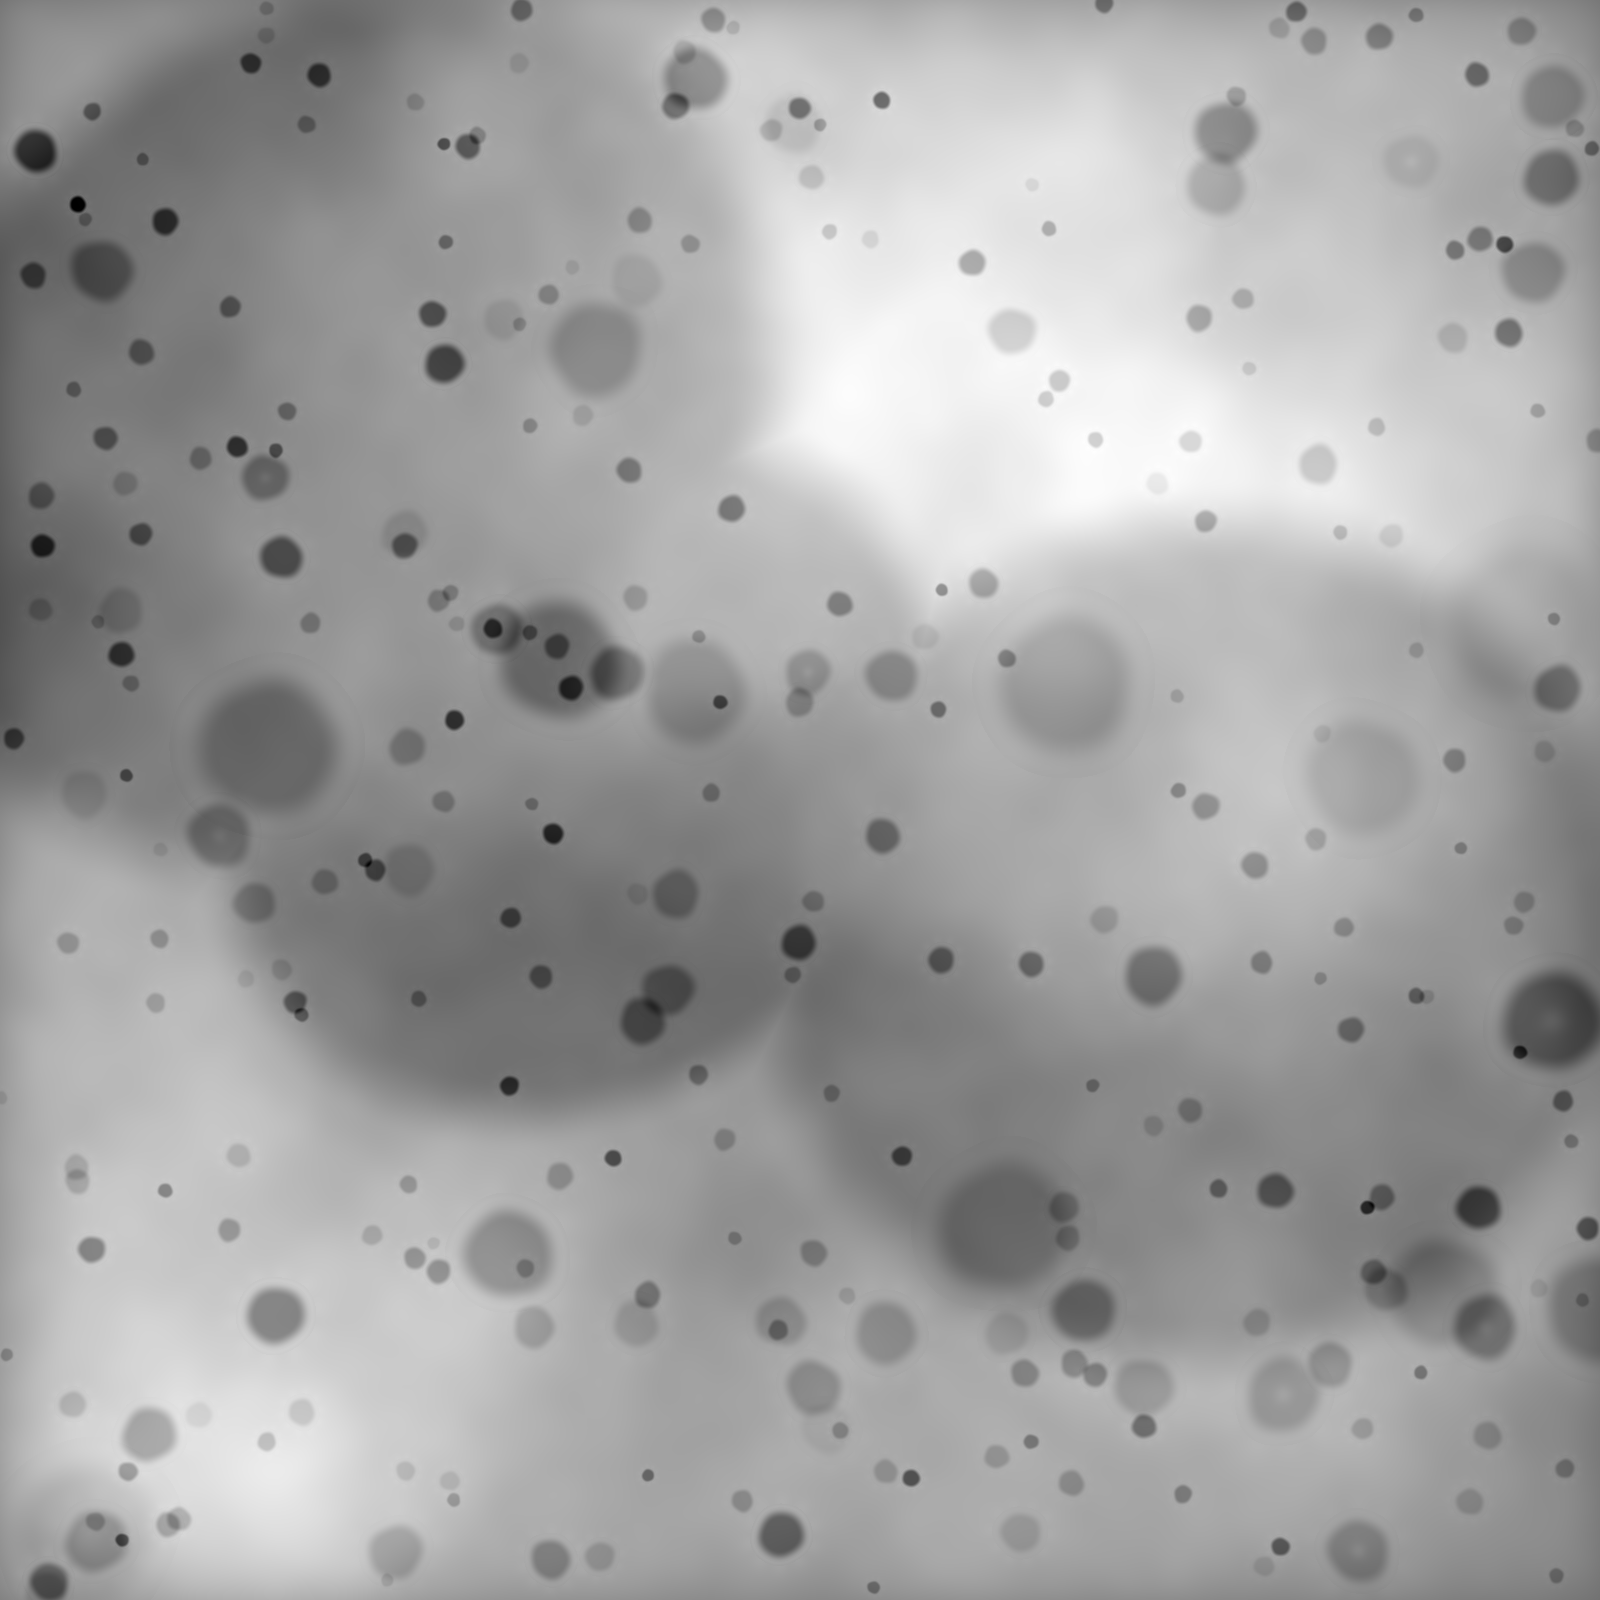
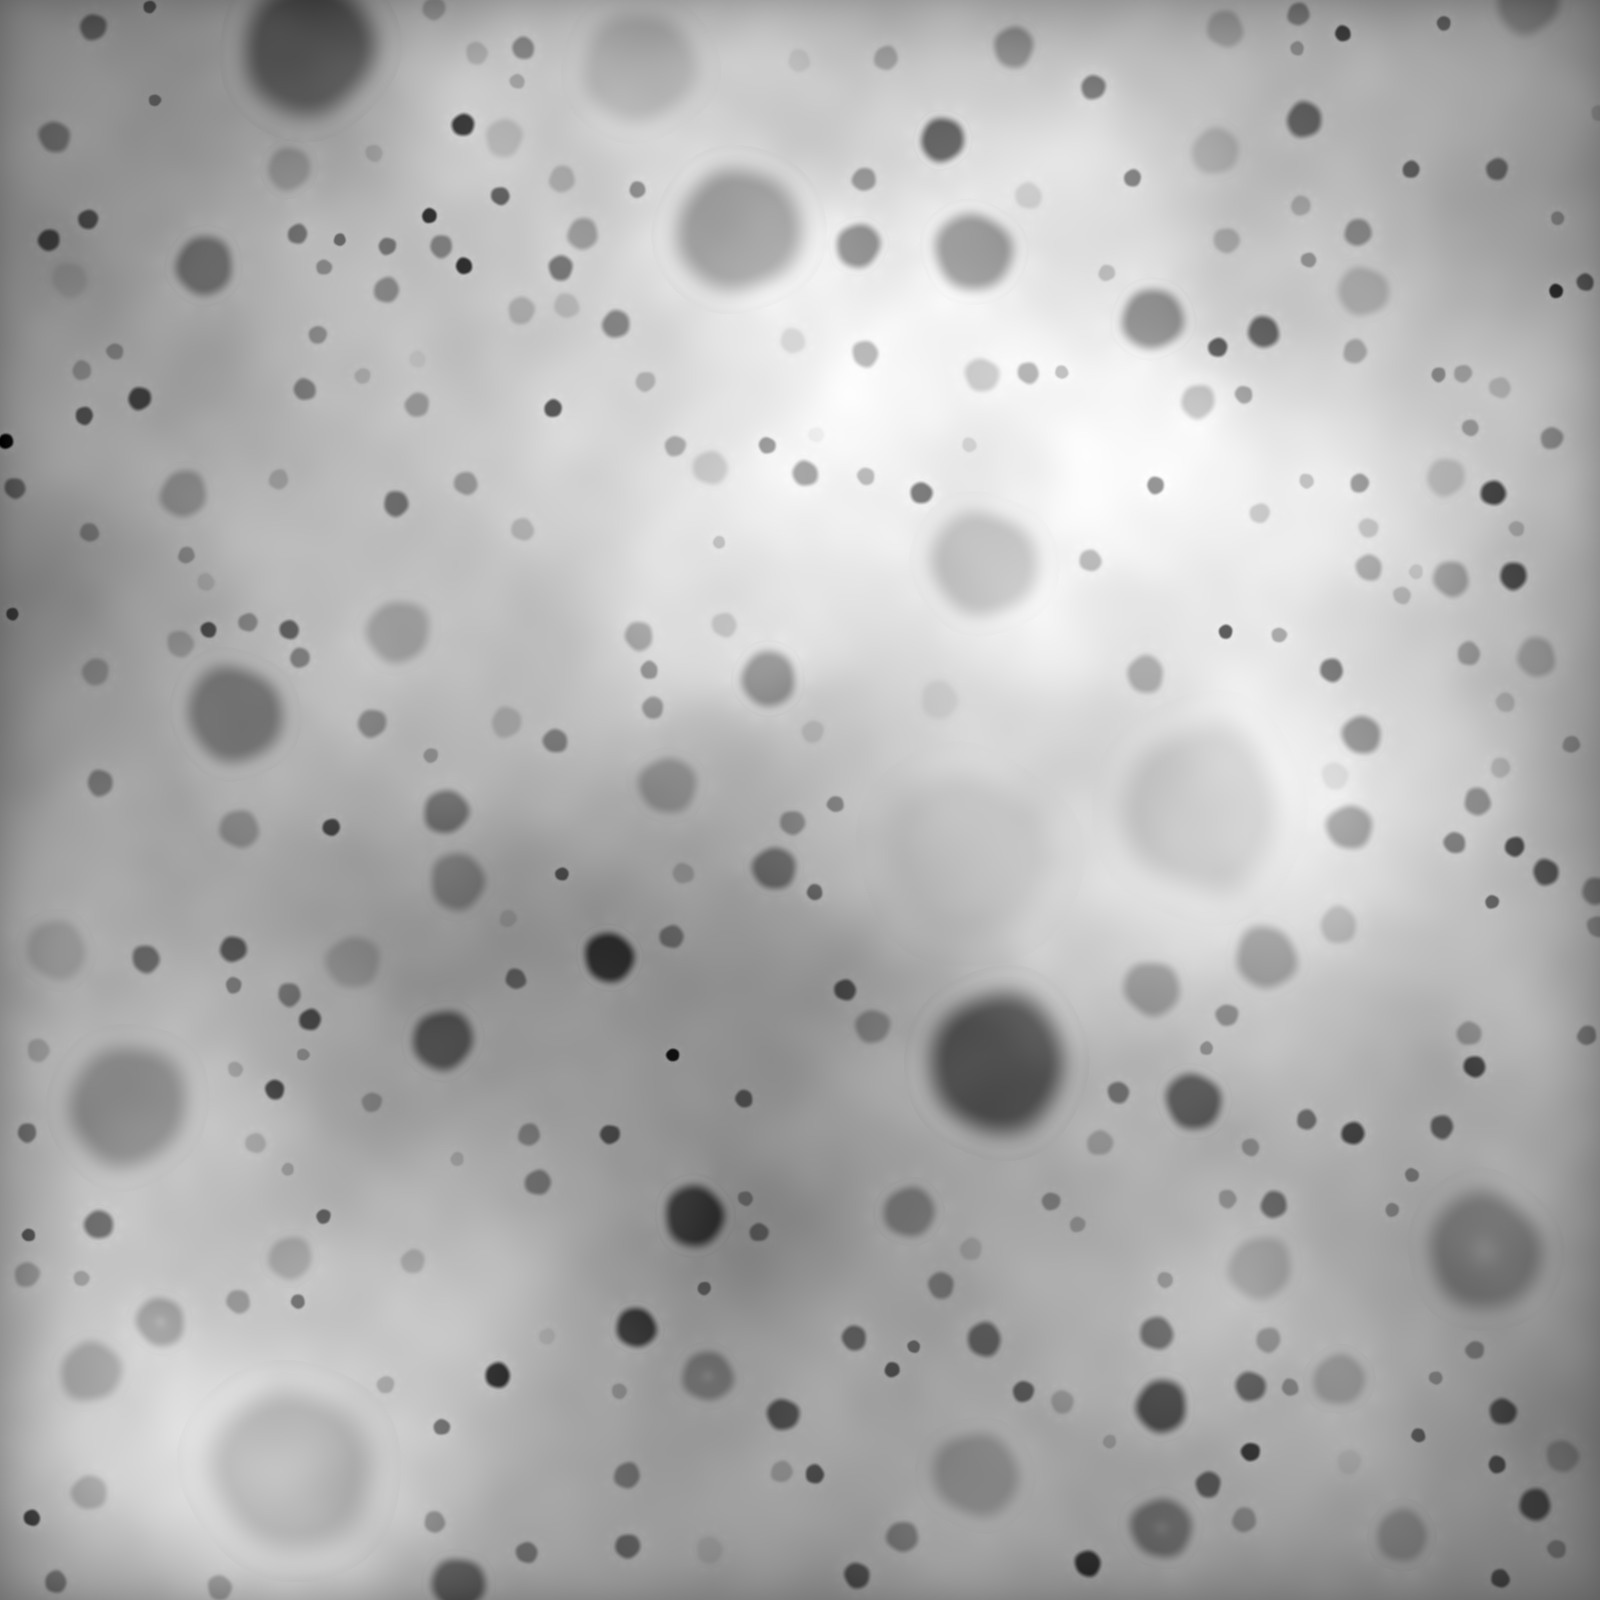
prototype: no overlap, smooth depth gradient, kill mare basin shadows
Three user-flagged issues:

  1. Some craters were overlapping. sample_craters now does rejection
     sampling: place big craters first, each new crater must sit at
     >= 1.05*(r1+r2) from every existing one. Drops a few craters near
     full packing, prints how many.

  2. Only "3-4 levels" of crater depth visible. Two fixes:
     a) cast_shadows() now tracks the maximum blocking *slope* along
        each ray and smoothly ramps from lit to shadow over a band of
        0.35 * tan(altitude). Old code was binary in/out of shadow,
        which collapsed the depth variety into discrete tiers.
     b) per-crater depth_jitter switched from uniform(0.30, 1.20) to
        Beta(2.2, 2.2)*1.6 + 0.15 → a continuous range 0.15..1.75
        with a fat middle.

  3. The big circular dark patches were the mare-basin layer. The
     user reads them as cast shadows on the surface — eliminate. The
     mask is still computed and written for the pipeline diagram, but
     it has zero effect on the height or albedo. Archetype tinting
     covers regional variation now.

https://claude.ai/code/session_014xZZbBkCGkgHdGrMSpJjDx

diff --git a/prototypes/planet_visuals/generate.py b/prototypes/planet_visuals/generate.py
@@ -194,25 +194,57 @@ class Crater:
     has_peak: bool
 
 
-def sample_craters(shape, rng, count_small=220, count_med=70, count_big=14):
+def sample_craters(shape, rng, count_small=220, count_med=70, count_big=14,
+                   min_separation=1.05):
+    """Reject-sample crater positions so no two craters overlap.
+
+    Place big craters first (they claim the most space), then medium,
+    then small. Each new crater must sit at least
+    `min_separation * (r1+r2)` from every existing crater — i.e. their
+    rims don't touch. If we can't place a crater after a budget of
+    attempts, drop it (the planet is full).
+    """
     h, w = shape
-    craters = []
-    # power law: many small, few big. Min radius 8 so the rim is at least a
-    # couple of pixels wide after pre-blur — otherwise small craters lose
-    # all their relief.
-    for n, rmin, rmax in [(count_small, 8, 18),
+    specs = []
+    for n, rmin, rmax in [(count_big, 42, 110),
                           (count_med, 18, 42),
-                          (count_big, 42, 110)]:
+                          (count_small, 8, 18)]:
         for _ in range(n):
-            craters.append(Crater(
-                cx=rng.uniform(0, w),
-                cy=rng.uniform(0, h),
-                r=rng.uniform(rmin, rmax),
-                age=rng.beta(2.0, 1.5),         # skew older
-                has_peak=rng.random() < 0.25,
+            specs.append((
+                float(rng.uniform(rmin, rmax)),
+                float(rng.beta(2.0, 1.5)),
+                bool(rng.random() < 0.25),
             ))
-    # sort by radius so big craters apply first, small ones overlay (recent)
-    craters.sort(key=lambda c: -c.r)
+
+    craters: list[Crater] = []
+    cx_arr = np.empty(0, dtype=np.float32)
+    cy_arr = np.empty(0, dtype=np.float32)
+    cr_arr = np.empty(0, dtype=np.float32)
+    max_attempts = 60
+    dropped = 0
+    for r, age, has_peak in specs:
+        placed = False
+        for _ in range(max_attempts):
+            cx = float(rng.uniform(0, w))
+            cy = float(rng.uniform(0, h))
+            if cr_arr.size == 0:
+                placed = True
+            else:
+                d2 = (cx_arr - cx) ** 2 + (cy_arr - cy) ** 2
+                min_d = (cr_arr + r) * min_separation
+                if not np.any(d2 < min_d * min_d):
+                    placed = True
+            if placed:
+                craters.append(Crater(cx=cx, cy=cy, r=r,
+                                      age=age, has_peak=has_peak))
+                cx_arr = np.append(cx_arr, cx)
+                cy_arr = np.append(cy_arr, cy)
+                cr_arr = np.append(cr_arr, r)
+                break
+        if not placed:
+            dropped += 1
+    if dropped:
+        print(f"  (dropped {dropped} craters that wouldn't fit)")
     return craters
 
 
@@ -257,7 +289,12 @@ def apply_craters(height, craters, rng=None):
         # floors fall into cast shadow — the variety the user asked for.
         # Larger craters trend shallower (filled / complex morphology).
         size_factor = 1.0 - min(0.55, (c.r - 8) / 220.0)
-        depth_jitter = rng.uniform(0.30, 1.20)
+        # Beta distribution for a smooth continuous range, not uniform —
+        # gives a fat middle so most craters land at moderate depth, with
+        # tails for very shallow and very deep ones. The user reported
+        # only "3-4 levels" with a tight uniform; widening + reshaping
+        # produces a continuous depth gradient.
+        depth_jitter = float(rng.beta(2.2, 2.2)) * 1.6 + 0.15  # 0.15..1.75
         sharp = 1.0 - c.age * 0.7
         depth_amp = -0.40 * sharp * size_factor * depth_jitter
         # Rim is *small* — only ~5% of depth amplitude.
@@ -322,22 +359,29 @@ def cast_shadows(height, azimuth_deg=315.0, altitude_deg=35.0, z_factor=75.0,
     h_scaled = (height * z_factor).astype(np.float32)
     yy, xx = np.mgrid[0:h, 0:w].astype(np.float32)
 
-    in_shadow = np.zeros((h, w), dtype=bool)
+    # Track the maximum BLOCKING SLOPE along the sun ray, not just a
+    # binary "in shadow" flag. A pixel whose max blocking slope just
+    # barely exceeds the sun altitude should be only partially shadowed
+    # (penumbra-like). This is what gives the continuous range of crater
+    # depths the user wanted instead of three discrete tiers.
+    max_block = np.full((h, w), -1e9, dtype=np.float32)
     n_steps = int(max_distance_px / step_px)
     for s in range(1, n_steps + 1):
         dist = s * step_px
         sample_x = np.clip(xx + sx * dist, 0, w - 1).astype(np.int32)
         sample_y = np.clip(yy + sy_image * dist, 0, h - 1).astype(np.int32)
         h_sample = h_scaled[sample_y, sample_x]
-        # The straight ray from (pixel) at altitude `altitude_deg` reaches
-        # height = h_pixel + dist * tan_alt at this distance. If terrain
-        # is higher there, the ray is blocked → pixel is in shadow.
-        in_shadow |= (h_sample > (h_scaled + dist * tan_alt))
+        block_slope = (h_sample - h_scaled) / dist
+        max_block = np.maximum(max_block, block_slope)
 
-    # Soften the edge: sample the binary mask through a tiny blur so
-    # shadow edges don't alias.
-    soft = gaussian_blur((~in_shadow).astype(np.float32), 0.8)
-    return np.clip(soft, 0.0, 1.0)
+    # Smooth transition: at max_block == tan_alt we're at the shadow
+    # edge; anything `band` above that is full shadow, anything `band`
+    # below is full sun. Linear ramp across that band gives the gradient.
+    band = tan_alt * 0.35
+    shadow_amount = np.clip((max_block - tan_alt) / band, 0.0, 1.0)
+    light = 1.0 - shadow_amount
+    light = gaussian_blur(light, 0.8)
+    return np.clip(light, 0.0, 1.0)
 
 
 def hillshade(height, azimuth_deg=315.0, altitude_deg=35.0, z_factor=75.0,
@@ -573,10 +617,13 @@ def build_planet(seed=SEED):
     height = 0.92 * base + 0.08 * detail
     save_gray(height, os.path.join(OUT, "stage1_heightmap.png"))
 
-    print("[2/6] mare basins...")
-    mare = mare_field(shape, rng, n=3)
-    height_with_mare = height - 0.20 * mare
-    save_gray(mare, os.path.join(OUT, "stage2_mare.png"))
+    print("[2/6] mare basins (disabled — read as circular dark patches)...")
+    # We still emit the mask so the pipeline diagram has a slot, but we
+    # don't apply any height or albedo effect. User feedback: the soft
+    # circular basins read as ugly cast shadows on the surface.
+    mare = mare_field(shape, rng, n=3) * 0.0
+    height_with_mare = height
+    save_gray(mare_field(shape, rng, n=3), os.path.join(OUT, "stage2_mare.png"))
 
     print("[3/6] crater field...")
     craters = sample_craters(shape, rng)
